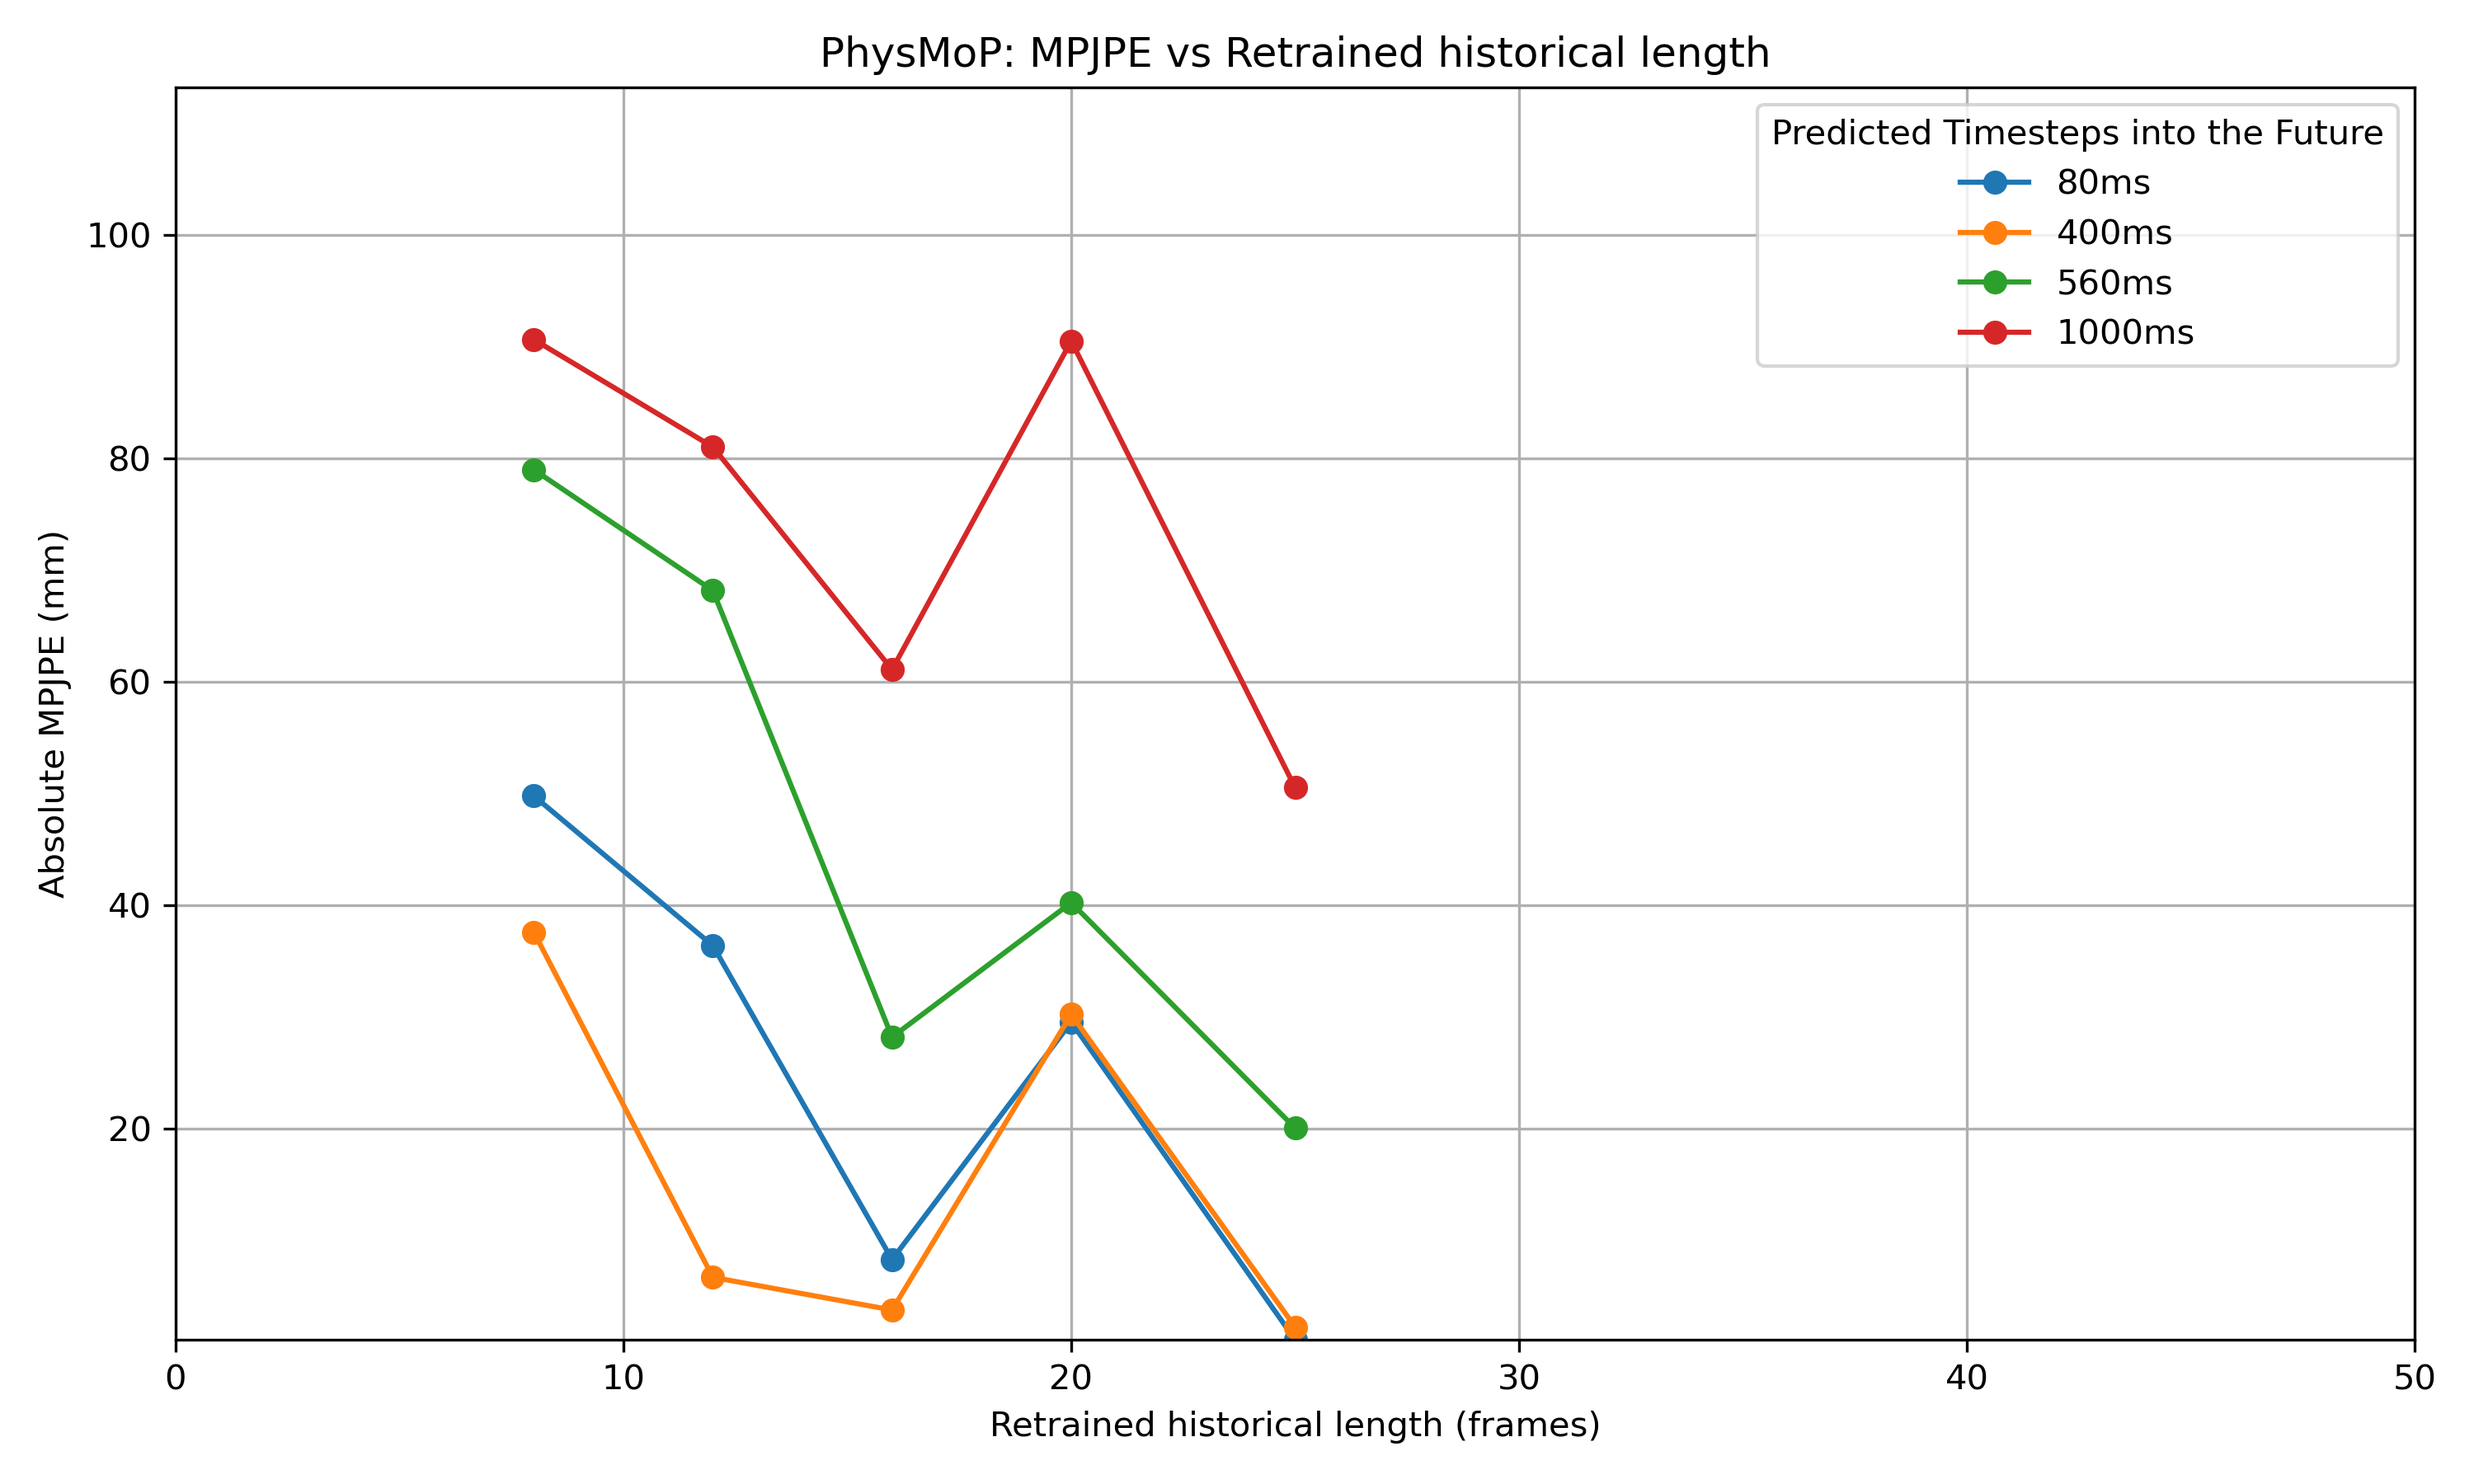
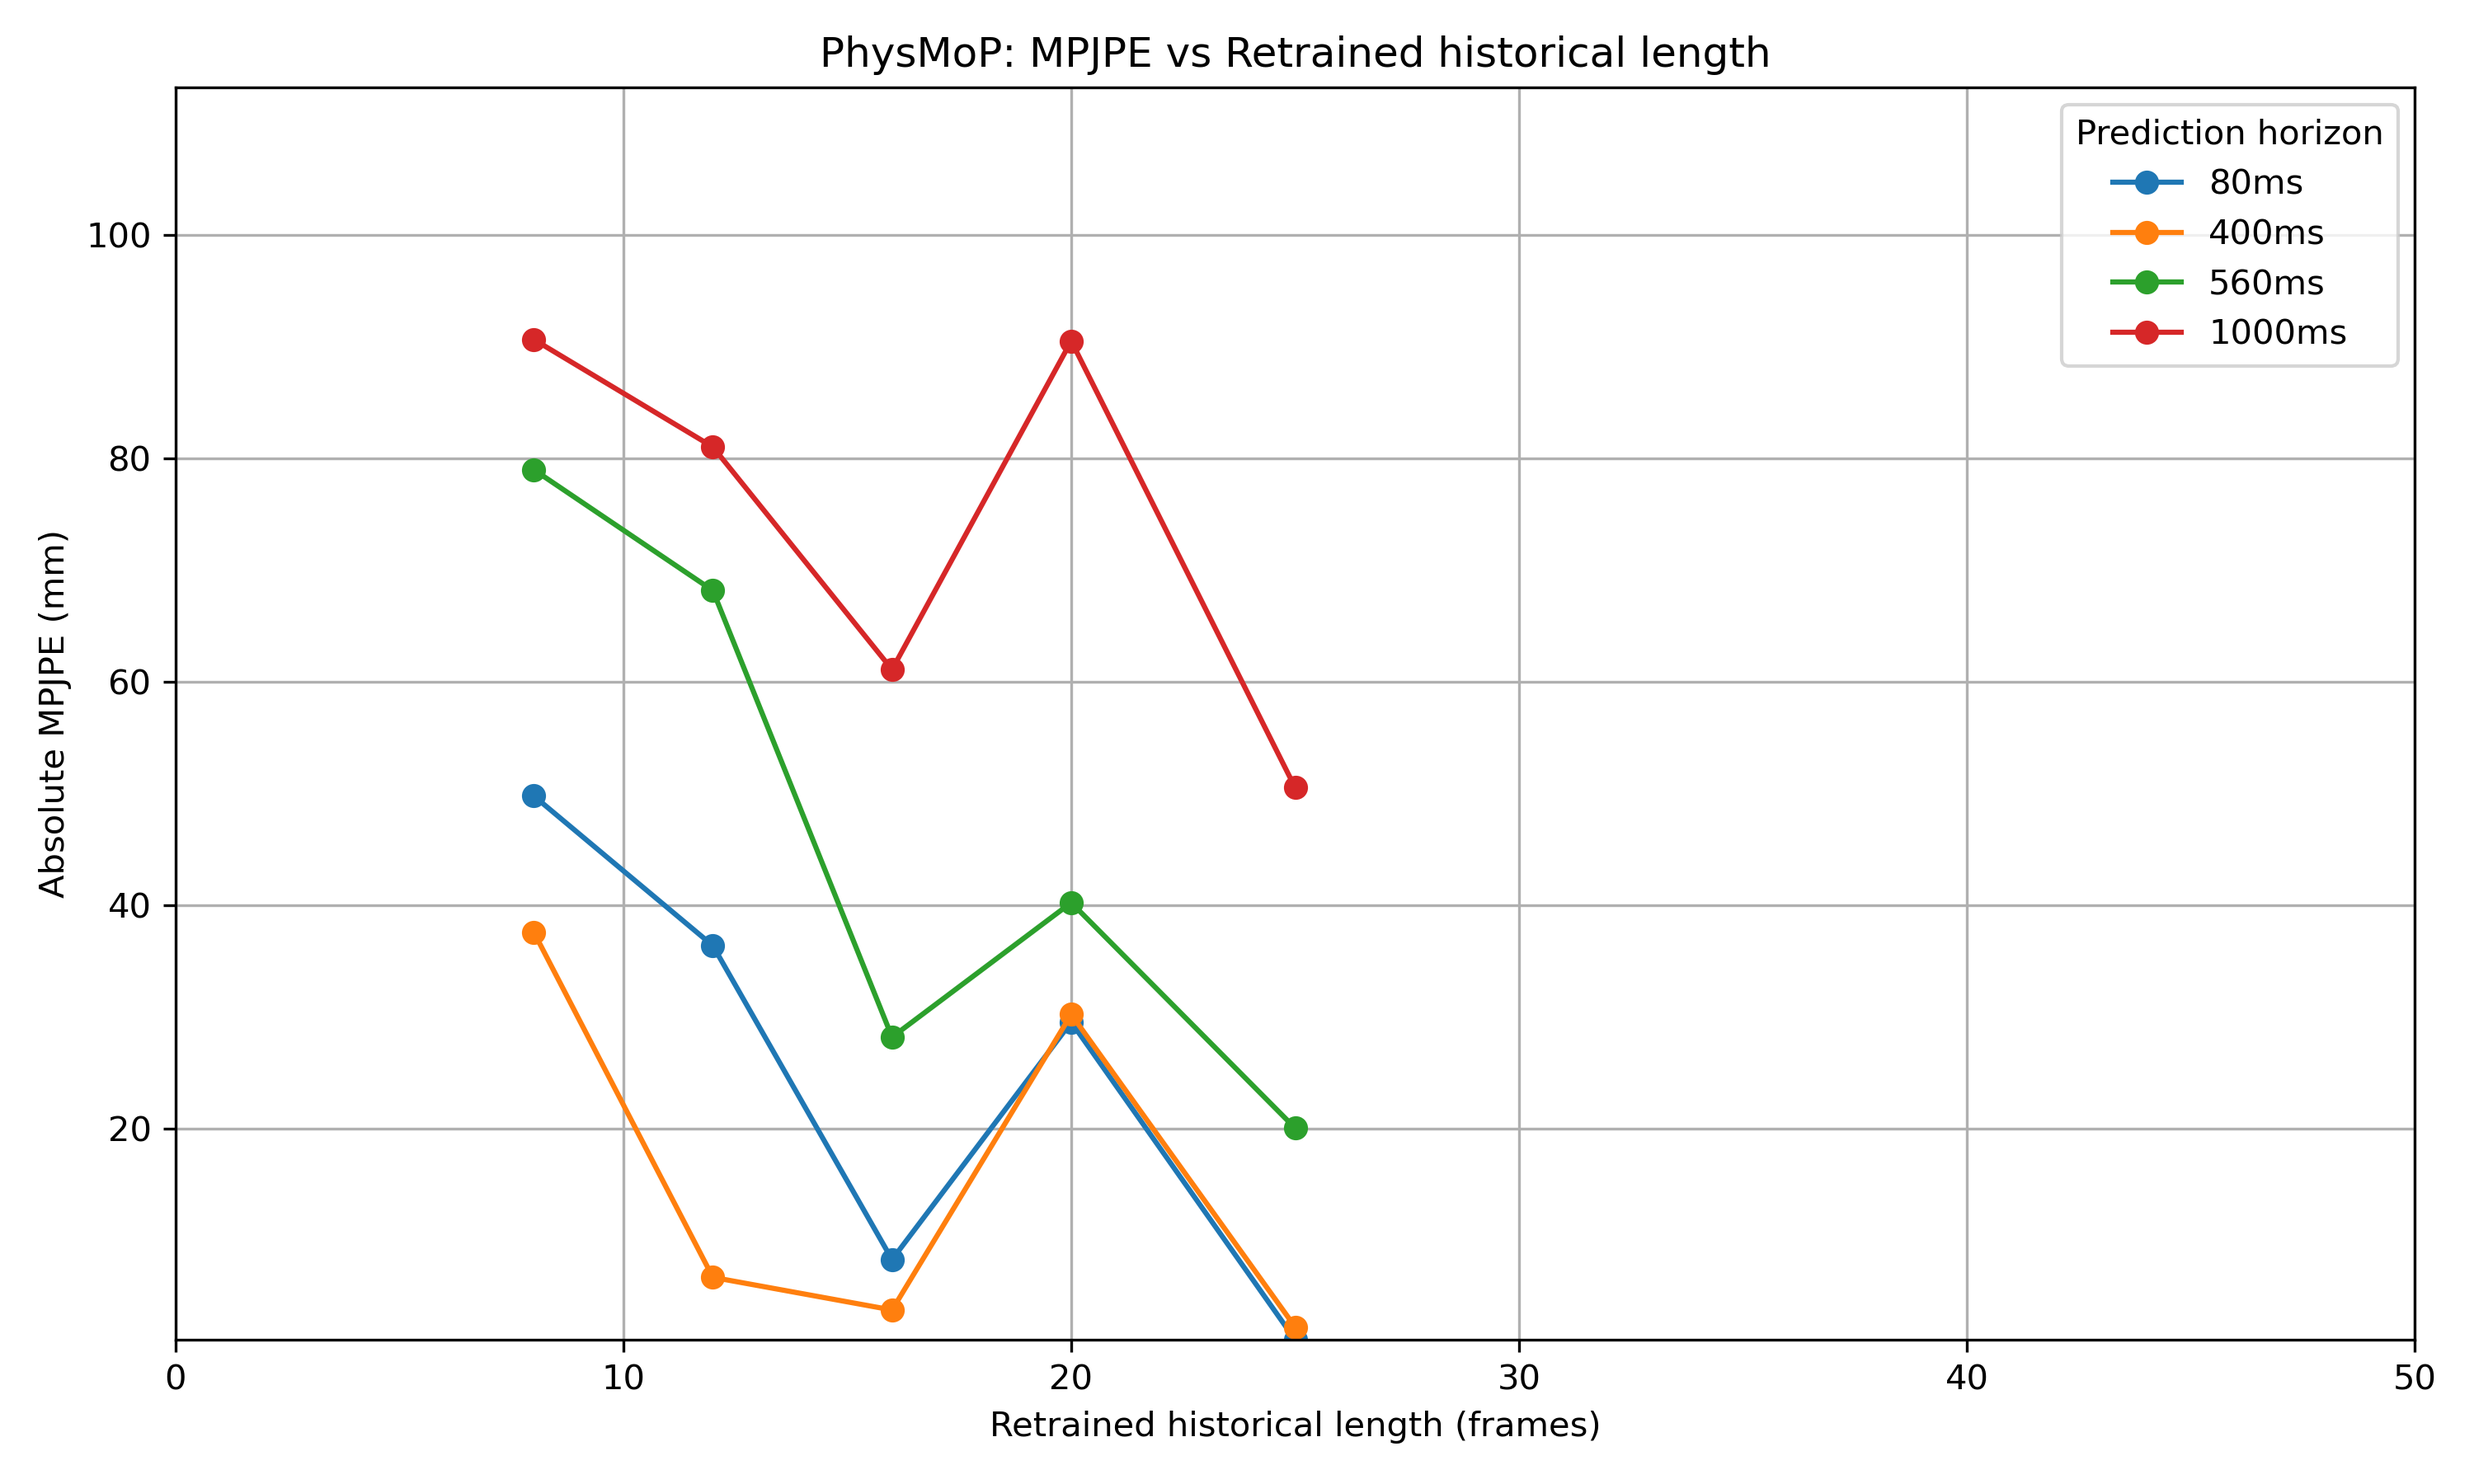
Update different lengths graph with better axis titles

Changed region(s): [[0.713, 0.0622, 0.961, 0.2489]]

diff --git a/exps/run/eval_different_lengths.py b/exps/run/eval_different_lengths.py
@@ -142,7 +142,7 @@ ax1.set_xlim(x_min, x_max)
 ax1.set_ylabel('Absolute MPJPE (mm)')
 ax1.set_ylim(y_min_abs, y_max_abs)
 ax1.set_title('PhysMoP: MPJPE vs Retrained historical length')
-ax1.legend(title='Predicted Timesteps into the Future')
+ax1.legend(title='Prediction horizon')
 ax1.grid(True)
 fig1.tight_layout()
 fig1.savefig('figures/physmop_performance_different_lengths.png', dpi=dpi)
@@ -160,9 +160,9 @@ ax2.set_xticklabels(physmop_hist_lengths)
 ax2.set_xlim(x_min, x_bar_max)
 ax2.set_ylim(y_min_rel, y_max_rel)
 ax2.set_xlabel('Historical Length (frames)')
-ax2.set_ylabel('Percentual Performance (relative to hist 25)')
-ax2.set_title('PhysMoP: Percentual Performance by Historical Length')
-ax2.legend(title='Predicted Timesteps into the Future', loc='upper right')
+ax2.set_ylabel('Relative MPJPE/Latency (to baseline)')
+ax2.set_title('PhysMoP: Relative Performance by Historical Length')
+ax2.legend(title='Prediction horizon', loc='upper right')
 ax2.grid(True)
 fig2.tight_layout()
 fig2.savefig('figures/physmop_bar_performance.png', dpi=dpi)
@@ -176,7 +176,7 @@ ax3.set_xlim(x_min, x_max)
 ax3.set_ylabel('Absolute MPJPE (mm)')
 ax3.set_ylim(y_min_abs, y_max_abs)
 ax3.set_title('GCNext: MPJPE vs Retrained historical length')
-ax3.legend(title='Predicted Timesteps into the Future')
+ax3.legend(title='Prediction horizon')
 ax3.grid(True)
 fig3.tight_layout()
 fig3.savefig('figures/gcnext_performance_different_lengths.png', dpi=dpi)
@@ -194,9 +194,9 @@ ax4.set_xticklabels(gcn_hist_lengths)
 ax4.set_xlim(x_min, x_bar_max)
 ax4.set_ylim(y_min_rel, y_max_rel)
 ax4.set_xlabel('Historical Length (frames)')
-ax4.set_ylabel('Percentual Performance (relative to hist 50)')
-ax4.set_title('GCNext: Percentual Performance by Historical Length')
-ax4.legend(title='Predicted Timesteps into the Future', loc='upper right')
+ax4.set_ylabel('Relative MPJPE/Latency (to baseline)')
+ax4.set_title('GCNext: Relative Performance by Historical Length')
+ax4.legend(title='Prediction horizon', loc='upper right')
 ax4.grid(True)
 fig4.tight_layout()
 fig4.savefig('figures/gcnext_bar_performance.png', dpi=dpi)
